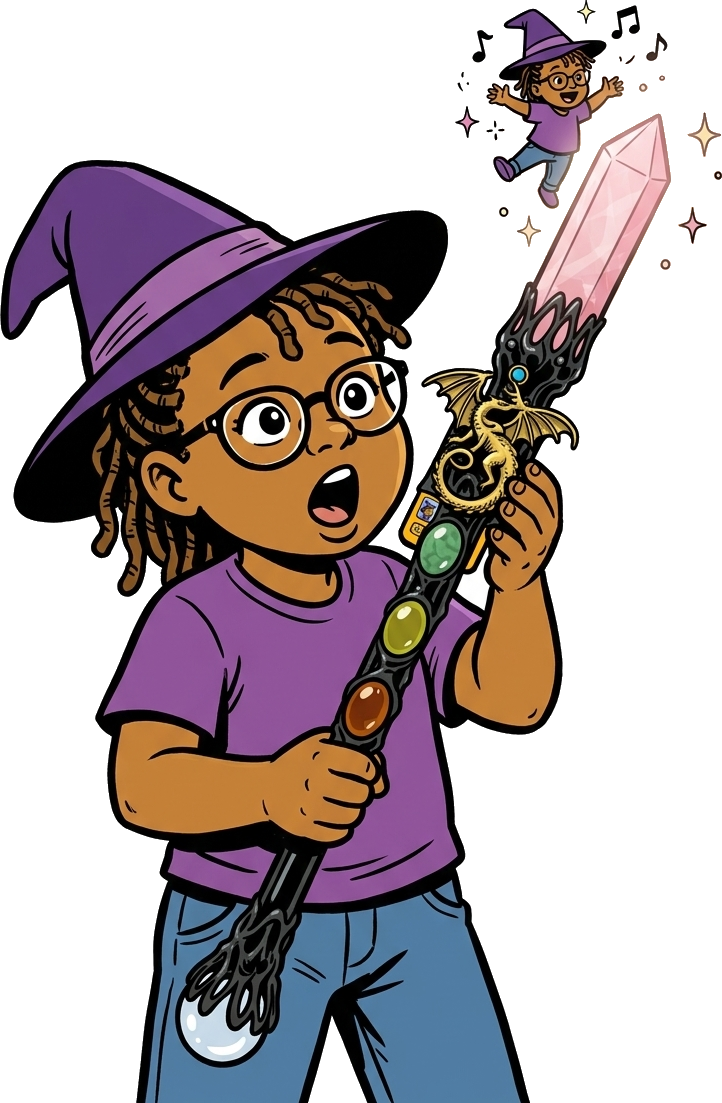
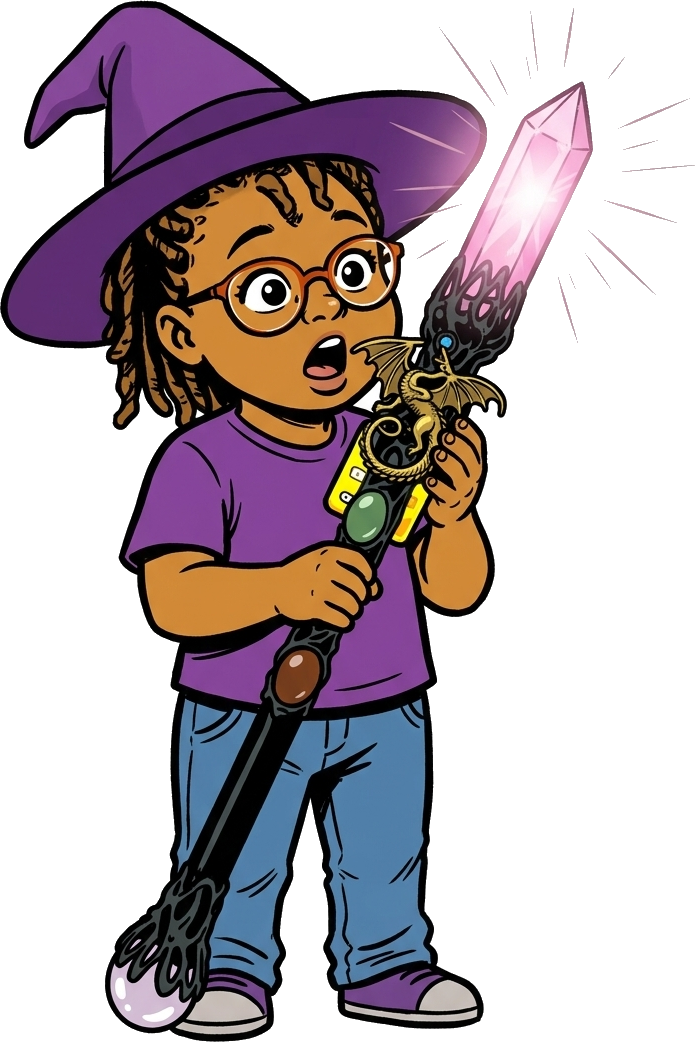
fix(story): fairy triggers after FLASH, enters off-screen, one swoop
- Regenerated slide-04-fg without baked-in tiny fairy
- Fairy triggers on FLASH word, enters from off-screen top-right
- One swoop loop (4 waypoints, ~3.5s), shrinks into wand at end

diff --git a/stickman/app/story/FairyFlight.tsx b/stickman/app/story/FairyFlight.tsx
@@ -10,7 +10,6 @@ const FAIRY_SPRITES = [
   "/images/story/fairy/fairy-wave.png",
 ];
 
-// Sparkle trail dot
 interface TrailDot {
   id: number;
   x: number;
@@ -18,12 +17,11 @@ interface TrailDot {
 }
 
 /**
- * Fairy Cece flies around the screen on a magical path, then dives into the wand.
- * Cycles through sprite frames while flying. Leaves sparkle trail.
+ * Fairy Cece enters from off-screen, does one dramatic swoop, then
+ * shrinks and disappears into the wand (center of screen).
  */
 export function FairyFlight({ onComplete }: { onComplete?: () => void }) {
   const fairyRef = useRef<HTMLDivElement>(null);
-  const containerRef = useRef<HTMLDivElement>(null);
   const [spriteIndex, setSpriteIndex] = useState(0);
   const [trail, setTrail] = useState<TrailDot[]>([]);
   const trailIdRef = useRef(0);
@@ -34,124 +32,92 @@ export function FairyFlight({ onComplete }: { onComplete?: () => void }) {
 
     const vw = window.innerWidth;
     const vh = window.innerHeight;
+    const fairySize = Math.min(vw, vh) * 0.13;
+    // Wand position (where Cece holds it — center-ish, slightly above middle)
+    const wandX = vw * 0.5;
+    const wandY = vh * 0.4;
 
-    // Size the fairy
-    const fairySize = Math.min(vw, vh) * 0.12;
+    // Flight: enter from top-right → swoop down-left → arc up → dive into wand
+    const tl = gsap.timeline();
 
-    // Flight waypoints — a dramatic loop around the screen
-    // Start from center (where the wand is), swoop around, come back
-    const waypoints = [
-      // Start: center of screen (near the wand)
-      { x: vw * 0.5, y: vh * 0.45, sprite: 3, dur: 0 },       // wave at viewer
-      // Swoop up and right
-      { x: vw * 0.8, y: vh * 0.2, sprite: 0, dur: 1.2 },       // fly right
-      // Arc across the top
-      { x: vw * 0.5, y: vh * 0.08, sprite: 1, dur: 1.0 },      // fly up at peak
-      // Dive down left
-      { x: vw * 0.15, y: vh * 0.4, sprite: 2, dur: 0.9 },      // dive
-      // Swoop back up and wave
-      { x: vw * 0.3, y: vh * 0.15, sprite: 1, dur: 0.8 },      // fly up
-      // Big swoop across to right
-      { x: vw * 0.85, y: vh * 0.35, sprite: 0, dur: 1.1 },     // fly right
-      // Loop over the top
-      { x: vw * 0.6, y: vh * 0.05, sprite: 1, dur: 0.8 },      // fly up
-      // Wave at viewer at top center
-      { x: vw * 0.5, y: vh * 0.12, sprite: 3, dur: 0.6 },      // wave
-      // Final dive back to wand center
-      { x: vw * 0.5, y: vh * 0.42, sprite: 2, dur: 1.0 },      // dive into wand
-    ];
-
-    // Build the GSAP timeline
-    const tl = gsap.timeline({
-      onComplete: () => {
-        // Shrink into wand
-        gsap.to(fairy, {
-          scale: 0, opacity: 0, duration: 0.5, ease: "power2.in",
-          onComplete,
-        });
-      },
-    });
-
-    // Set initial position
+    // Start off-screen top-right
     gsap.set(fairy, {
-      x: waypoints[0].x - fairySize / 2,
-      y: waypoints[0].y - fairySize / 2,
-      scale: 0,
-      opacity: 0,
+      x: vw + 50,
+      y: -50,
+      scale: 0.4,
+      opacity: 1,
       force3D: true,
     });
 
-    // Pop in with a sparkle
+    // 1. Fly in from top-right, growing, swooping down to center-left
+    tl.call(() => setSpriteIndex(0), [], 0); // fly-right (entering from right)
     tl.to(fairy, {
-      scale: 1, opacity: 1,
-      duration: 0.5, ease: "back.out(2)",
+      x: vw * 0.2 - fairySize / 2,
+      y: vh * 0.3 - fairySize / 2,
+      scale: 1,
+      duration: 1.2,
+      ease: "power1.inOut",
+      force3D: true,
     }, 0);
+    tl.to(fairy, { scaleX: -1, duration: 0.01 }, 0); // flying left (flipped)
 
-    // Pause to wave
-    tl.to({}, { duration: 0.6 }, 0.5);
+    // 2. Arc up to top-center
+    tl.call(() => setSpriteIndex(1), [], 1.2); // fly-up
+    tl.to(fairy, { scaleX: 1, duration: 0.15 }, 1.2); // unflip
+    tl.to(fairy, {
+      x: vw * 0.5 - fairySize / 2,
+      y: vh * 0.08 - fairySize / 2,
+      duration: 1.0,
+      ease: "power1.inOut",
+      force3D: true,
+    }, 1.2);
 
-    // Fly through each waypoint
-    let time = 1.1;
-    for (let i = 1; i < waypoints.length; i++) {
-      const wp = waypoints[i];
-      const prevWp = waypoints[i - 1];
+    // 3. Quick wave at the top
+    tl.call(() => setSpriteIndex(3), [], 2.2); // wave
+    tl.to({}, { duration: 0.5 }, 2.2); // pause to wave
 
-      // Determine if flying left (flip sprite)
-      const goingLeft = wp.x < prevWp.x;
+    // 4. Dive into the wand — shrinking as she goes
+    tl.call(() => setSpriteIndex(2), [], 2.7); // dive
+    tl.to(fairy, {
+      x: wandX - fairySize / 2,
+      y: wandY - fairySize / 2,
+      scale: 0.15,
+      duration: 1.0,
+      ease: "power2.in",
+      force3D: true,
+    }, 2.7);
 
-      // Set sprite at start of each segment
-      tl.call(() => {
-        setSpriteIndex(wp.sprite);
-      }, [], time);
+    // 5. Final flash and disappear
+    tl.to(fairy, {
+      opacity: 0,
+      scale: 0,
+      duration: 0.3,
+      ease: "power3.in",
+      onComplete,
+    }, 3.6);
 
-      // Flip fairy based on direction
-      tl.to(fairy, {
-        scaleX: goingLeft ? -1 : 1,
-        duration: 0.15,
-        ease: "power1.inOut",
-      }, time);
-
-      // Move to waypoint with a curved feel (overshoot ease)
-      tl.to(fairy, {
-        x: wp.x - fairySize / 2,
-        y: wp.y - fairySize / 2,
-        duration: wp.dur,
-        ease: i === waypoints.length - 1 ? "power2.in" : "power1.inOut",
-        force3D: true,
-      }, time);
-
-      time += wp.dur;
-    }
-
-    // Sparkle trail: poll fairy position every 80ms and drop dots
+    // Sparkle trail: drop dots every 60ms while flying
     let trailInterval: ReturnType<typeof setInterval> | null = null;
-    const startTrail = () => {
-      trailInterval = setInterval(() => {
-        if (!fairy) return;
-        const rect = fairy.getBoundingClientRect();
-        if (rect.width === 0) return;
-        const id = trailIdRef.current++;
-        const dot: TrailDot = {
-          id,
-          x: rect.left + rect.width / 2 + (Math.random() - 0.5) * 10,
-          y: rect.top + rect.height / 2 + (Math.random() - 0.5) * 10,
-        };
-        setTrail((prev) => [...prev.slice(-25), dot]); // keep last 25 dots
-      }, 80);
-    };
-
-    // Start trail after pop-in
-    const trailTimer = setTimeout(startTrail, 600);
+    trailInterval = setInterval(() => {
+      if (!fairy) return;
+      const rect = fairy.getBoundingClientRect();
+      if (rect.width === 0) return;
+      const id = trailIdRef.current++;
+      setTrail((prev) => [...prev.slice(-20), {
+        id,
+        x: rect.left + rect.width / 2 + (Math.random() - 0.5) * 12,
+        y: rect.top + rect.height / 2 + (Math.random() - 0.5) * 12,
+      }]);
+    }, 60);
 
     return () => {
       tl.kill();
       if (trailInterval) clearInterval(trailInterval);
-      clearTimeout(trailTimer);
     };
   }, [onComplete]);
 
   return (
-    <div ref={containerRef} className="fixed inset-0 z-30 pointer-events-none">
+    <div className="fixed inset-0 z-30 pointer-events-none">
       {/* Sparkle trail */}
       {trail.map((dot) => (
         <div
@@ -160,22 +126,22 @@ export function FairyFlight({ onComplete }: { onComplete?: () => void }) {
           style={{
             left: dot.x,
             top: dot.y,
-            width: 4 + Math.random() * 4,
-            height: 4 + Math.random() * 4,
+            width: 3 + (dot.id % 4),
+            height: 3 + (dot.id % 4),
             background: ["#ffd700", "#da70d6", "#fff", "#ff69b4"][dot.id % 4],
             boxShadow: `0 0 6px ${["#ffd700", "#da70d6", "#fff", "#ff69b4"][dot.id % 4]}`,
-            animation: "fairyTrailFade 0.8s ease-out forwards",
+            animation: "fairyTrailFade 0.6s ease-out forwards",
           }}
         />
       ))}
 
-      {/* The fairy sprite */}
+      {/* Fairy sprite */}
       <div
         ref={fairyRef}
         className="absolute"
         style={{
-          width: `${Math.min(window.innerWidth, window.innerHeight) * 0.12}px`,
-          height: `${Math.min(window.innerWidth, window.innerHeight) * 0.12}px`,
+          width: `${Math.min(window.innerWidth, window.innerHeight) * 0.13}px`,
+          height: `${Math.min(window.innerWidth, window.innerHeight) * 0.13}px`,
         }}
       >
         {FAIRY_SPRITES.map((src, i) => (
@@ -186,16 +152,16 @@ export function FairyFlight({ onComplete }: { onComplete?: () => void }) {
             className="absolute inset-0 w-full h-full object-contain"
             style={{
               opacity: spriteIndex === i ? 1 : 0,
-              transition: "opacity 0.15s ease",
+              transition: "opacity 0.12s ease",
             }}
           />
         ))}
-        {/* Glow around fairy */}
+        {/* Glow */}
         <div
-          className="absolute -inset-4 rounded-full"
+          className="absolute -inset-3 rounded-full"
           style={{
-            background: "radial-gradient(circle, rgba(255,215,0,0.3) 0%, rgba(218,112,214,0.15) 50%, transparent 70%)",
-            animation: "fairyGlow 1s ease-in-out infinite alternate",
+            background: "radial-gradient(circle, rgba(255,215,0,0.35) 0%, rgba(218,112,214,0.15) 50%, transparent 70%)",
+            animation: "fairyGlow 0.8s ease-in-out infinite alternate",
           }}
         />
       </div>

diff --git a/stickman/app/story/slides.ts b/stickman/app/story/slides.ts
@@ -89,7 +89,7 @@ export const STORY_SLIDES: Slide[] = [
     fg: "/images/story/slide-04-fg.png",
     effect: "flash",
     effectTriggerWord: "FLASH",
-    fairyTriggerWord: "tiny version",
+    fairyTriggerWord: "FLASH",
   },
   {
     lines: [
